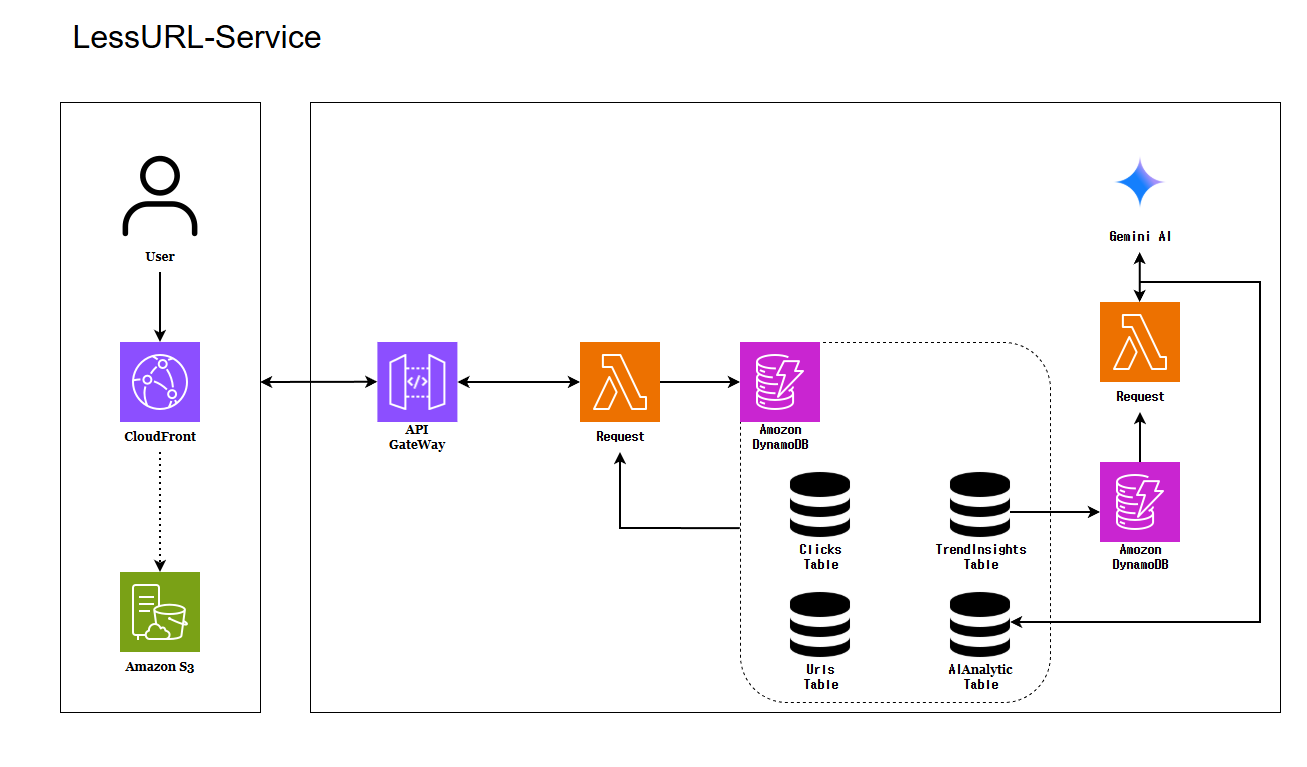
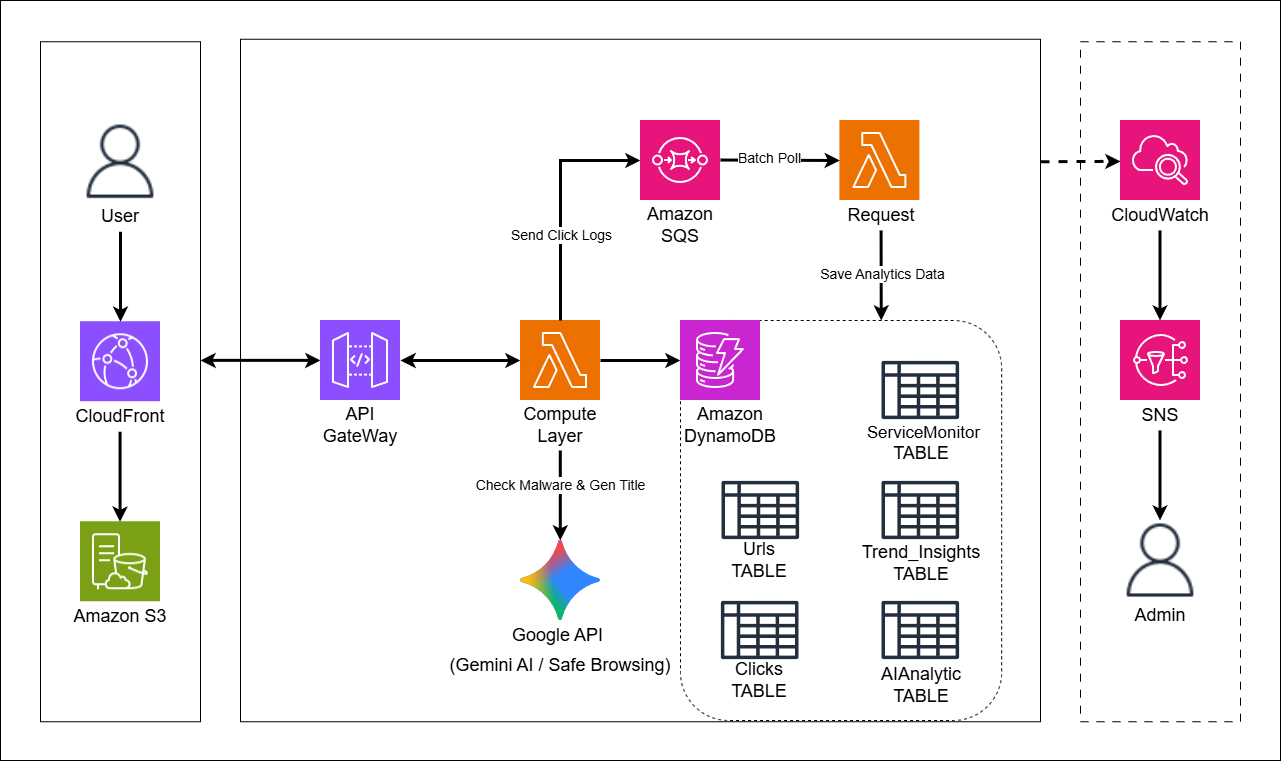
docs: readme.md 업데이트

diff --git a/README.md b/README.md
@@ -1,82 +1,98 @@
-# 🔗 LessURL - 지능형 서버리스 URL 단축 서비스
+# LessURL
 
-**LessURL**은 AWS 서버리스 아키텍처와 최신 AI 기술을 결합하여 탄생한 스마트 URL 관리 플랫폼입니다. 단순한 링크 단축을 넘어, AI 기반의 실시간 유해성 분석과 심도 있는 클릭 통계 리포트를 제공합니다.
+## 🦁 멋쟁이사자 인턴쉽 프로젝트: 서버리스 URL 단축 서비스
 
-## 🚀 주요 기능 (Key Features)
-
-### 1. 지능형 URL 단축 및 보안
-*   **AI 기반 위협 탐지**: Google Gemini 1.5 Flash와 Google Safe Browsing API를 이중으로 활용하여 피싱, 악성코드 사이트를 실시간으로 차단합니다.
-*   **유연한 가시성**: `PUBLIC`(공개 대시보드 노출) 또는 `PRIVATE`(나만 확인) 설정을 지원합니다.
-
-### 2. 고도화된 통계 분석 및 AI 인사이트
-*   **정밀 트래킹**: 시간별, 일별 클릭 추이와 유입 경로(Referer)를 데이터 시각화하여 제공합니다.
-*   **AI 리포트**: Gemini 2.5 Flash가 수집된 통계를 분석하여 사용자 행동 패턴에 대한 한 줄 인사이트와 전문가 팁을 생성합니다.
-*   **지능형 캐싱**: AI API 할당량 보호 및 응답 속도 향상을 위해 분석 결과를 **24시간 동안 DB에 캐싱**하는 로직이 적용되어 있습니다.
-
-### 3. 현대적인 사용자 경험 (UX)
-*   **브랜드 아이덴티티**: Deep Trust Navy(#002855)와 Energizing Orange(#FF6B35)를 활용한 전문적이고 역동적인 UI.
-*   **다국어 지원**: 한국어 및 영어 자동 전환 및 설정 유지 기능을 제공합니다.
-*   **실시간 대시보드**: 최신 공개 링크들을 한눈에 확인하고 즉시 이동 및 통계 조회가 가능합니다.
+LessURL은 AWS 서버리스 아키텍처(Lambda, API Gateway, DynamoDB)를 기반으로 구축된 고성능 URL 단축 서비스입니다. 단순한 URL 연결을 넘어 **SnapStart를 활용한 응답 속도 최적화**, **SQS를 이용한 비동기 통계 분석**, 그리고 **Gemini AI를 통한 트렌드 분석** 기능을 제공합니다.
 
 ---
 
-## 🛠 기술 스택 (Tech Stack)
+### 🚀 핵심 기능 (Key Features)
 
-### Backend (Serverless)
-- **Runtime**: Java 21 (AWS Lambda)
-- **Optimization**: AWS Lambda **SnapStart** 적용 (Cold Start 최적화)
-- **Framework**: AWS Serverless Application Model (SAM)
-- **Database**: Amazon DynamoDB (On-Demand)
-- **AI/Security**: Google Gemini API (1.5 & 2.5 Flash), Google Safe Browsing API
-
-### Frontend
-- **Framework**: **Next.js 16** (App Router, Static Export)
-- **Library**: React 19, TypeScript
-- **Styling**: **Tailwind CSS 4** (최신 버전 적용)
-- **Infrastructure**: AWS S3, Amazon CloudFront
-
-### DevOps & Monitoring
-- **CI/CD**: GitHub Actions (자동 빌드 및 배포)
-- **Monitoring**: Amazon CloudWatch Alarms (에러율, 실행 시간, Throttling 감지 및 SNS 이메일 알림)
+-   **고성능 URL 단축:** 긴 URL을 짧고 고유한 ID로 신속하게 변환.
+-   **실시간 리디렉션 & 비동기 로깅:** 사용자가 단축 URL 클릭 시 즉각적인 원본 이동과 동시에 SQS를 통한 비동기 데이터 분석 수행.
+-   **보안 검사:** Google Safe Browsing API를 연동하여 위험한 URL 등록을 사전에 차단.
+-   **AI 인사이트:** Gemini AI를 활용해 특정 URL의 유입 패턴과 인기 트렌드를 분석하여 리포트 제공.
+-   **상세 통계:** 시간대별, 일별, 레퍼러(Referer)별 클릭 지표 대시보드.
+-   **모니터링 & 알람:** CloudWatch Alarms와 SNS를 통해 장애 발생 시 즉각적인 이메일 알림 발송.
 
 ---
 
-## 🏗 아키텍처 (Architecture)
+### 🛠 기술 스택 (Tech Stack)
+
+| 구분 | 기술 | 비고 |
+| :--- | :--- | :--- |
+| **Compute** | **AWS Lambda** | Java 21 기반 서버리스 함수 (SnapStart 적용) |
+| **API** | **API Gateway** | RESTful API 엔드포인트 제공 |
+| **Database** | **DynamoDB** | NoSQL 데이터베이스 (5개 테이블, GSI 활용) |
+| **Messaging** | **AWS SQS** | 리디렉션 로그 비동기 처리를 위한 메시지 큐 |
+| **Infrastructure** | **AWS SAM** | Infrastructure as Code (IaC) 기반 리소스 관리 |
+| **Frontend** | **Next.js (App Router)** | TypeScript 기반 웹 대시보드 |
+| **AI Analysis** | **Google Gemini API** | AI 기반 인기 URL 패턴 및 트렌드 분석 |
+| **Security** | **Safe Browsing API** | Google Safe Browsing 연동 악성 URL 필터링 |
+| **CI/CD** | **GitHub Actions** | 백엔드/프론트엔드 자동 빌드 및 배포 파이프라인 |
+
+---
+
+### 🏗 상세 아키텍처 (Detailed Architecture)
 
 ![Architecture Diagram](./architecture%20diagram.png)
 
 ---
 
-## 💻 로컬 개발 환경 설정 (Local Development)
+### 📂 프로젝트 구조 (Project Structure)
 
-### Prerequisites
-- AWS SAM CLI, Java 21, Docker
-- Google Gemini API Key
-
-### Setup
-1.  **데이터베이스 실행**: `docker-compose up -d`
-2.  **테이블 초기화**: `setup-local-db.bat` 실행
-3.  **백엔드 실행**:
-    ```bash
-    sam build
-    sam local start-api --env-vars local-env.json --port 3001
-    ```
-4.  **프론트엔드 실행**:
-    ```bash
-    cd frontend
-    npm install
-    npm run dev
-    ```
+```text
+LessURL-Service/
+├── LessUrlFunction/             # [Backend] Java 21 서버리스 코드
+├── frontend/                    # [Frontend] Next.js 기반 대시보드
+├── .github/workflows/           # [CI/CD] GitHub Actions 배포 워크플로우 (deploy.yml)
+├── template.yaml                # [IaC] AWS SAM 리소스 정의
+├── local-env.json               # 로컬 테스트용 환경 변수 설정 파일
+└── api-requests.http            # IntelliJ API 테스트 파일
+```
 
 ---
 
-## 📡 모니터링 알람 (Monitoring)
-본 프로젝트는 안정적인 운영을 위해 다음과 같은 CloudWatch 알람이 설정되어 있습니다.
-- **Lambda Errors**: 분당 10회 이상 발생 시 알림
-- **Lambda Duration**: 평균 실행 시간 3초 초과 시 알림
-- **API Gateway 5XX/4XX**: 이상 징후 발생 시 실시간 감지
-- **DynamoDB Throttling**: 읽기/쓰기 용량 초과 시 즉시 대응 가능
+### ⚙ 설정 및 실행 (Configuration & Setup)
+
+#### **1. 필수 GitHub Secrets (Environment Variables)**
+프로젝트 배포를 위해 다음 GitHub Secrets 설정이 필요합니다.
+
+| 구분 | 변수명 | 설명 |
+| :--- | :--- | :--- |
+| **AWS 인증** | `AWS_ACCESS_KEY_ID` | AWS IAM 사용자 액세스 키 |
+| | `AWS_SECRET_ACCESS_KEY` | AWS IAM 사용자 비밀 키 |
+| **백엔드(SAM)** | `GEMINI_API_KEY` | Google AI Studio API 키 |
+| | `SAFE_BROWSING_API_KEY` | Google Safe Browsing API 키 |
+| | `PROD_BASE_URL` | 운영용 단축 URL 도메인 (예: `https://lessurl.site`) |
+| | `CORS_PROD_ORIGIN` | 허용할 프론트엔드 도메인 (CORS 설정용) |
+| | `SAM_S3_BUCKET` | SAM 빌드 산출물 저장용 S3 버킷명 |
+| **프론트엔드** | `NEXT_PUBLIC_API_BASE_URL` | 프론트엔드가 호출할 API Gateway 주소 |
+| | `NEXT_PUBLIC_ADMIN_TOKEN` | 관리자 페이지 인증용 비밀 토큰 |
+| | `FRONTEND_S3_BUCKET` | 프론트엔드 정적 호스팅 S3 버킷명 |
+| | `CLOUDFRONT_DISTRIBUTION_ID` | 배포 후 캐시 무효화를 위한 CloudFront ID |
+
+#### **2. 빌드 및 로컬 실행**
+```bash
+# 백엔드 빌드 및 로컬 실행
+cd LessUrlFunction && ./gradlew build
+sam local start-api --env-vars local-env.json
+
+# 프론트엔드 실행
+cd frontend && npm install && npm run dev
+```
 
 ---
 
-&copy; 2026 LessURL Service. Powered by AWS Serverless.
+### 🧪 테스트 및 품질 관리 (Testing)
+
+-   **Unit Test:** JUnit 5를 사용하여 핸들러 로직 검증 (`LessUrlFunction/src/test`)
+-   **API Test:** IntelliJ IDEA의 `api-requests.http` 파일을 사용하여 엔드포인트 응답 확인
+-   **GitHub Actions:** 코드 푸시 시 자동으로 단위 테스트를 실행하고 아티팩트를 업로드합니다.
+
+---
+
+### 🚢 배포 (Deployment)
+-   **Branch:** `deploy` 브랜치에 푸시 시 GitHub Actions가 동작합니다.
+-   **Backend:** AWS SAM을 통해 CloudFormation 스택으로 배포됩니다.
+-   **Frontend:** 빌드 후 S3 정적 호스팅에 배포되며 CloudFront 캐시가 자동 무효화됩니다.
